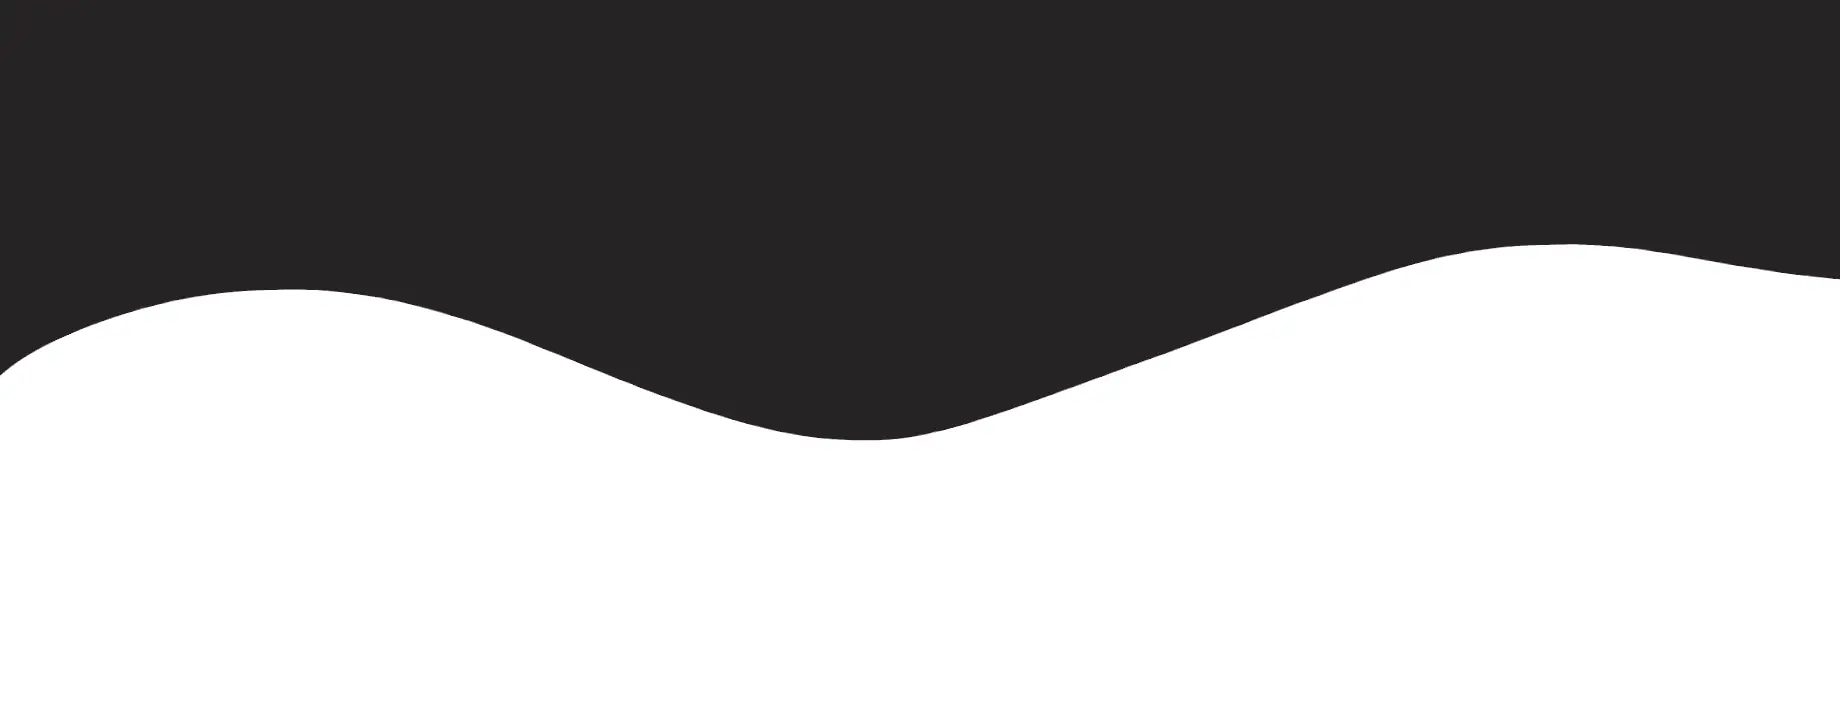
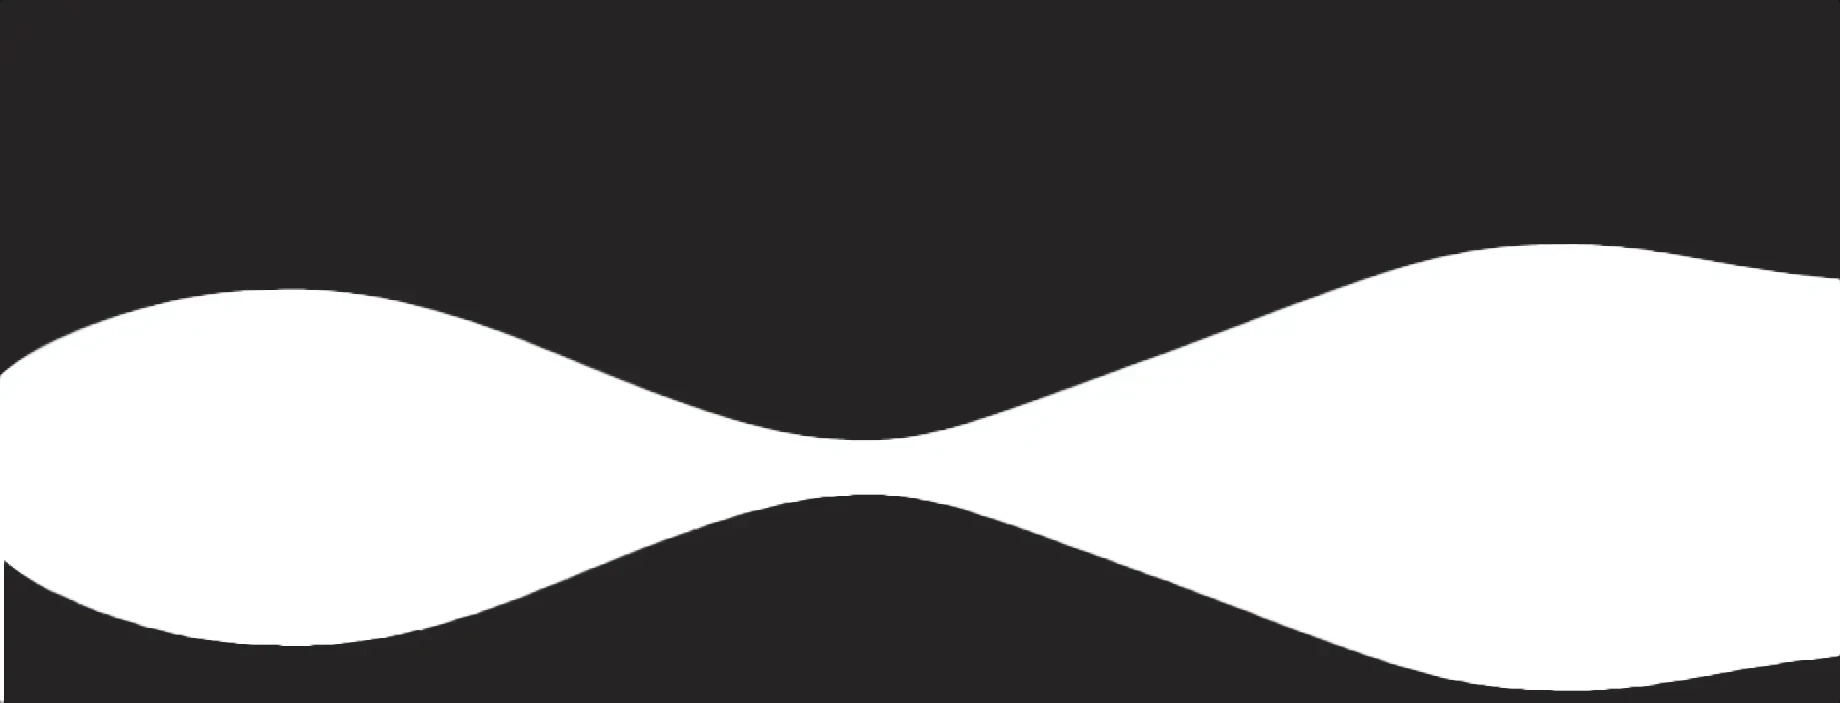
fixed the footer colors

Changed region(s): [[0.0, 0.6871, 1.0, 1.0]]

diff --git a/styles.css b/styles.css
@@ -22,15 +22,12 @@ main {
   background-repeat: no-repeat;
   background-size: cover;
   background-position: center;
-
 }
 
 a {
   text-decoration: none;
   color: inherit;
 }
-
-
 
 /* Splash Screen */
 .splashscreen {
@@ -357,7 +354,7 @@ a {
   }
   100% {
     opacity: 1;
-    transform: translateY(-5px);
+    transform: translateY(-30px);
   }
 }
 
@@ -374,9 +371,9 @@ a {
   text-align: center;
   color: black;
   font-weight: 200;
-  margin: 20px auto; /* Centered with equal margin on top and bottom */
-}
+  margin: 20px auto; 
 
+}
 
 .info-box:hover,
 .info-box:hover {
@@ -401,7 +398,6 @@ a {
   text-align: center;
   color: black;
   margin: 10px; /* Added margin for spacing */
-
   max-width: fit-content;
   margin-left: auto;
   margin-right: auto;
@@ -420,7 +416,7 @@ a {
 }
 
 .info-box.visible {
-  animation: fadeIn 1.5s forwards;
+  animation: fadeIn 3s forwards;
 }
 .info-box-permis.visible {
   animation: fadeIn 3s forwards;
@@ -464,7 +460,6 @@ a {
   gap: 20px;
 }
 
-
 .footer {
   background-color: rgb(36, 35, 35);
   color: #fff;
@@ -479,6 +474,7 @@ a {
   align-items: baseline; /* Ensures all articles have equal height */
   gap: 10px;
   margin-bottom: 10%;
+  border-top: solid 1px gray;
 }
 
 .footer article {
@@ -487,16 +483,14 @@ a {
   flex-direction: column;
   justify-content: center; /* Centers content vertically */
   align-items: center;
- 
+
   min-height: 150px; /* Adjust the height as needed */
 }
 
-
-.footer h3{
+.footer h3 {
   align-items: start;
   top: 0;
 }
-
 
 .footer article p,
 .footer article a {
@@ -508,17 +502,15 @@ a {
   .footer {
     flex-direction: column; /* Stack items vertically on smaller screens */
     background-color: rgb(255, 255, 255);
-    border-radius: 69% 31% 46% 54% / 40% 48% 52% 60%  ;
+    border-radius: 55% 45% 54% 46% / 51% 54% 46% 49%  ;
     align-items: stretch; /* Ensures all articles have equal height */
 
-  
     color: #000000;
   }
 
   .footer article {
     min-height: auto; /* Remove fixed height for mobile */
   }
-
 }
 
 .footer a:hover {
